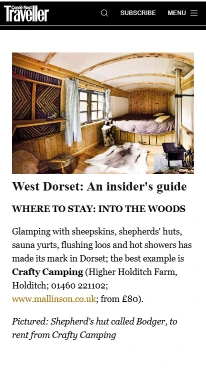
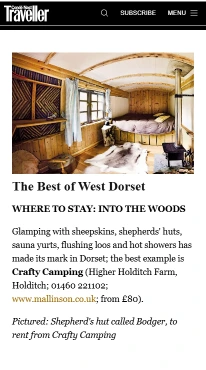
Head the Conde Nast Traveller tile with the piece's own title
The tile was headed "West Dorset: An insider's guide", which is the running
head the gallery repeats on every slide rather than the name of the piece. It
now carries the article's own title.

The line is set in the page before the shutter rather than painted over the
picture afterwards, so the paper's own stylesheet draws it and the face, size
and colour match everything around it. The stored headline follows, since that
is what the link announces to anyone who cannot see the tile.

Changed region(s): [[0.0583, 0.4757, 0.9029, 0.5351]]

diff --git a/public/press.html b/public/press.html
@@ -433,7 +433,7 @@
                     </li>
                     <li id="press-cntraveller" data-location="dorset">
                       <article class="ch-press__card">
-                        <a class="ch-press__clip" href="https://www.cntraveller.com/gallery/guide-to-dorset-england" target="_blank" rel="noopener" aria-label="Read &ldquo;The best of West Dorset&rdquo; on Condé Nast Traveller"><img src="images/press-shots/cntraveller-412.webp?v=20260926" srcset="images/press-shots/cntraveller-206.webp?v=20260926 206w, images/press-shots/cntraveller-412.webp?v=20260926 412w" sizes="(max-width: 767px) 45vw, 14rem" loading="lazy" decoding="async" alt=""></a>
+                        <a class="ch-press__clip" href="https://www.cntraveller.com/gallery/guide-to-dorset-england" target="_blank" rel="noopener" aria-label="Read &ldquo;The Best of West Dorset&rdquo; on Condé Nast Traveller"><img src="images/press-shots/cntraveller-412.webp?v=20260926a" srcset="images/press-shots/cntraveller-206.webp?v=20260926a 206w, images/press-shots/cntraveller-412.webp?v=20260926a 412w" sizes="(max-width: 767px) 45vw, 14rem" loading="lazy" decoding="async" alt=""></a>
                         <div class="ch-press__body">
                           <span class="ch-press__logo" role="img" aria-label="Condé Nast Traveller" style="--logo-scale:1.5;-webkit-mask-image:url('images/press/cntraveller.svg');mask-image:url('images/press/cntraveller.svg')"></span>
                           <p class="ch-press__year">2013 &middot; Dorset</p>

diff --git a/public/dorset-press.html b/public/dorset-press.html
@@ -286,7 +286,7 @@
                     </li>
                     <li id="press-cntraveller" data-location="dorset">
                       <article class="ch-press__card">
-                        <a class="ch-press__clip" href="https://www.cntraveller.com/gallery/guide-to-dorset-england" target="_blank" rel="noopener" aria-label="Read &ldquo;The best of West Dorset&rdquo; on Condé Nast Traveller"><img src="images/press-shots/cntraveller-412.webp?v=20260926" srcset="images/press-shots/cntraveller-206.webp?v=20260926 206w, images/press-shots/cntraveller-412.webp?v=20260926 412w" sizes="(max-width: 767px) 45vw, 14rem" loading="lazy" decoding="async" alt=""></a>
+                        <a class="ch-press__clip" href="https://www.cntraveller.com/gallery/guide-to-dorset-england" target="_blank" rel="noopener" aria-label="Read &ldquo;The Best of West Dorset&rdquo; on Condé Nast Traveller"><img src="images/press-shots/cntraveller-412.webp?v=20260926a" srcset="images/press-shots/cntraveller-206.webp?v=20260926a 206w, images/press-shots/cntraveller-412.webp?v=20260926a 412w" sizes="(max-width: 767px) 45vw, 14rem" loading="lazy" decoding="async" alt=""></a>
                         <div class="ch-press__body">
                           <span class="ch-press__logo" role="img" aria-label="Condé Nast Traveller" style="--logo-scale:1.5;-webkit-mask-image:url('images/press/cntraveller.svg');mask-image:url('images/press/cntraveller.svg')"></span>
                           <p class="ch-press__year">2013</p>
